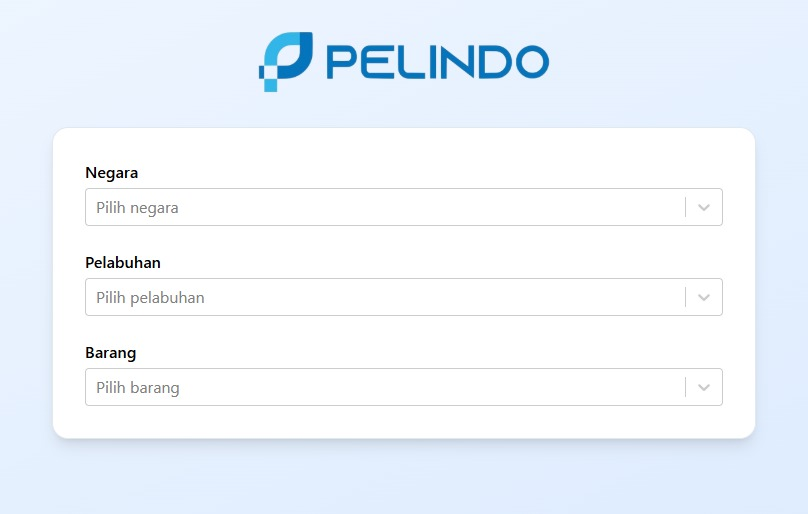
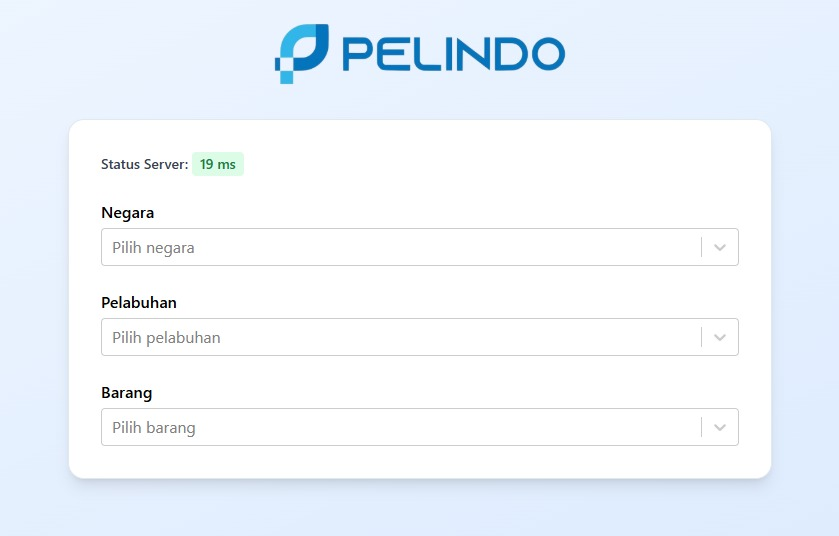
Commit : Add Ping

Changed region(s): [[0.0619, 0.2179, 0.9592, 0.9027], [0.3094, 0.0311, 0.6807, 0.1868], [0.8354, 0.4358, 0.8663, 0.4669]]

diff --git a/src/pages/FormPelindo.jsx b/src/pages/FormPelindo.jsx
@@ -13,6 +13,7 @@ const FormPelindo = () => {
   const [barang, setBarang] = useState(null);
   const [hargaEditable, setHargaEditable] = useState("");
   const [diskonEditable, setDiskonEditable] = useState("");
+  const [pingMs, setPingMs] = useState(null);
 
   useEffect(() => {
     if (barang) {
@@ -20,6 +21,23 @@ const FormPelindo = () => {
       setDiskonEditable(barang.diskon?.toString() || "");
     }
   }, [barang]);
+
+  useEffect(() => {
+    const getPing = async () => {
+      const start = Date.now();
+      try {
+        await fetch("http://202.157.176.100:3001/ping");
+        const end = Date.now();
+        setPingMs(end - start);
+      } catch (err) {
+        setPingMs(null);
+        console.error("Ping gagal", err);
+      }
+    };
+    getPing();
+    const interval = setInterval(getPing, 1000);
+    return () => clearInterval(interval);
+  }, []);
 
   const hargaNumber = parseFloat(hargaEditable) || 0;
   const diskonNumber = parseFloat(diskonEditable) || 0;
@@ -44,6 +62,23 @@ const FormPelindo = () => {
           transition={{ duration: 0.6, delay: 0.2 }}
           className="bg-white shadow-lg rounded-2xl p-6 sm:p-8 border border-slate-200 space-y-6"
         >
+          {pingMs !== null && (
+            <div className="text-sm font-medium mb-1 text-gray-700">
+              Status Server:{" "}
+              <span
+                className={`inline-block px-2 py-0.5 rounded font-semibold ${
+                  pingMs < 200
+                    ? "bg-green-100 text-green-700"
+                    : pingMs < 500
+                    ? "bg-yellow-100 text-yellow-700"
+                    : "bg-red-100 text-red-700"
+                }`}
+              >
+                {pingMs} ms
+              </span>
+            </div>
+          )}
+
           <SelectNegara
             onSelect={(v) => {
               setNegara(v);
